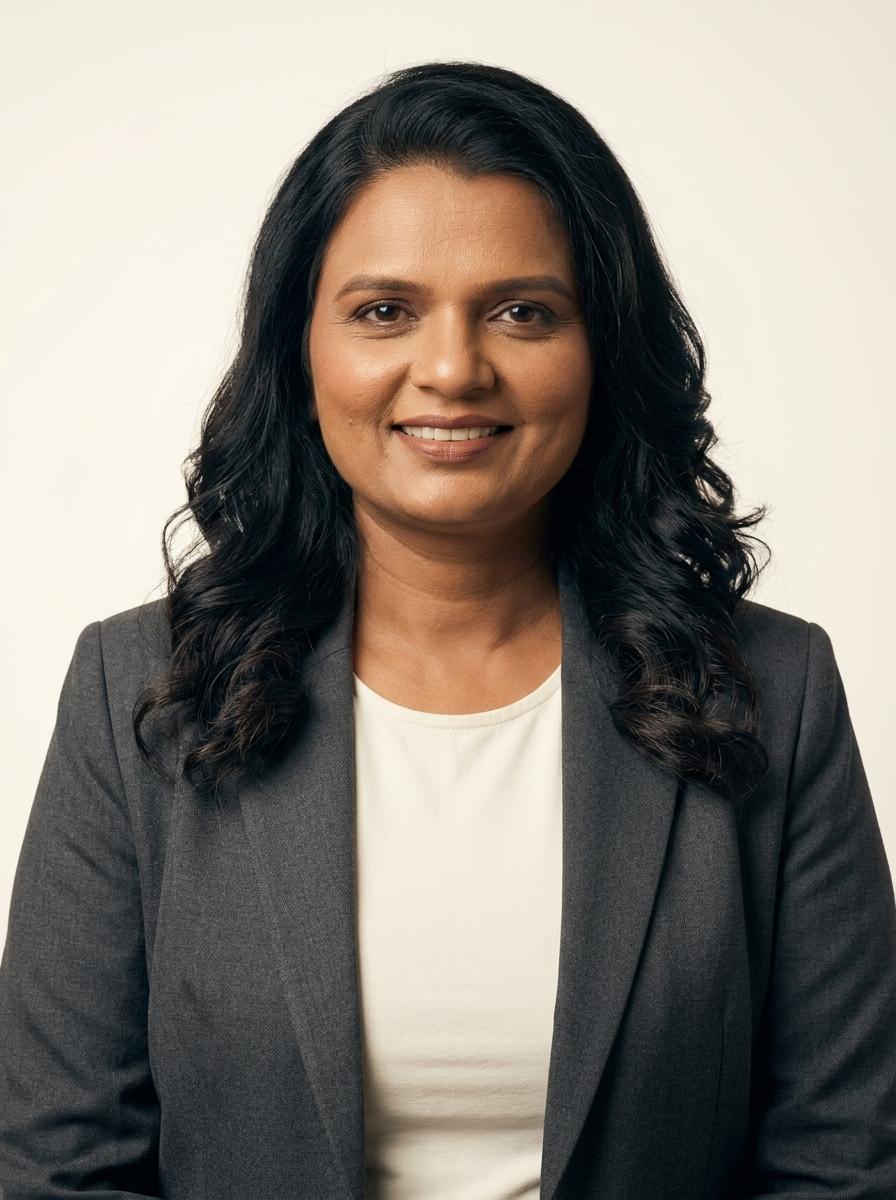
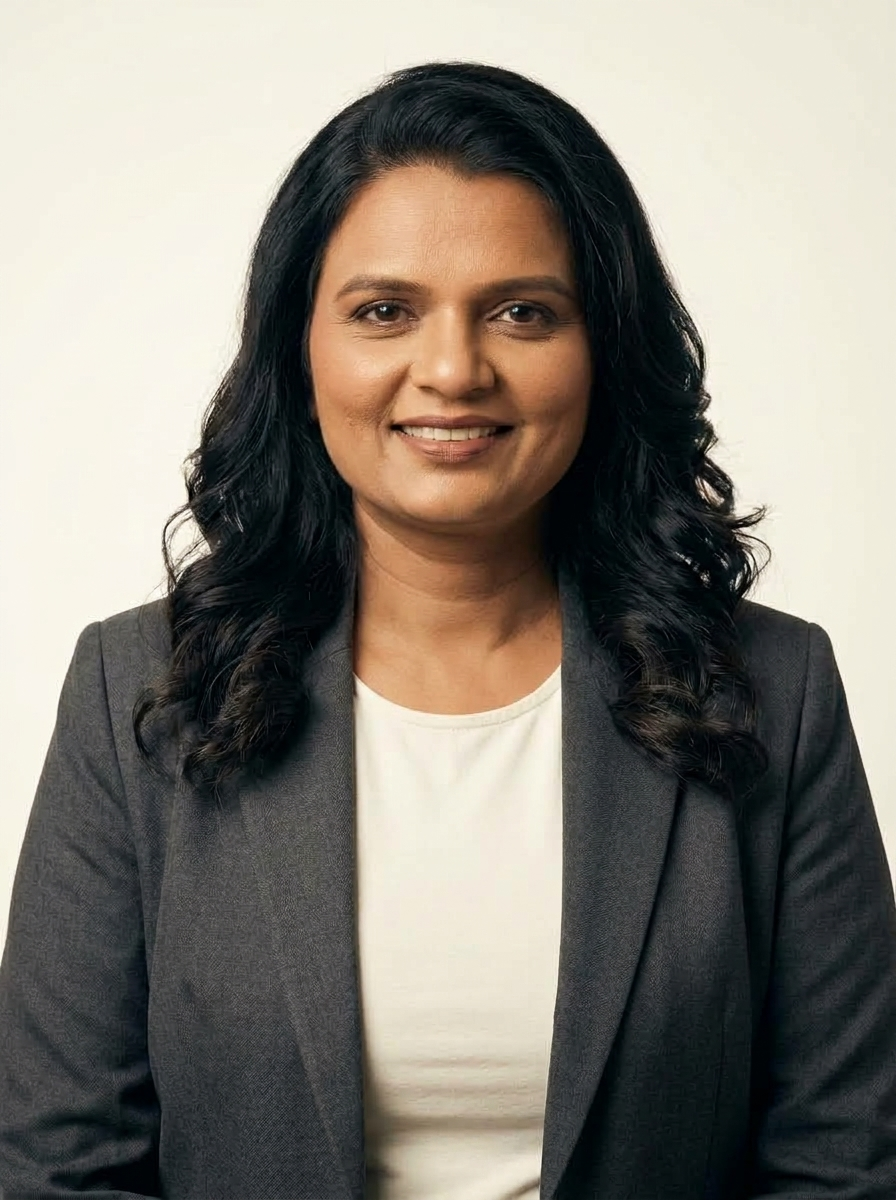
Wire in v4 headshot (skin-tone corrected, Amee-confirmed)
v2 had correct likeness but ran too dark/bronze. v3's tone-correction
pass didn't visibly take (compared side by side, couldn't tell it apart
from v2). v4's forceful, explicit correction did -- visibly lighter and
closer to the reference photos' actual tone, confirmed by both direct
comparison here and by Amee.

Docs updated with the v3 and v4 prompts/reasoning for the record.

Changed region(s): [[0.75, 0.2775, 0.7812, 0.3083], [0.1875, 0.4625, 0.2188, 0.4933]]

diff --git a/components/about/DesignerSpecCard.tsx b/components/about/DesignerSpecCard.tsx
@@ -16,8 +16,10 @@ const tools: { label: string; icon: IconName }[] = [
  * on the site) rather than an empty placeholder box.
  *
  * Portrait: AI-generated from the client's own reference photos (see
- * docs/headshot-generation-prompt.md — round 2/"v2" prompt, after round 1
- * drifted off her actual likeness; Amee confirmed the likeness). Full-bleed
+ * docs/headshot-generation-prompt.md — round 4/"v4" prompt; round 1 drifted
+ * off her likeness, v2 fixed that but ran too dark/bronze, v3's tone fix
+ * didn't actually take, v4's forceful correction did. Amee confirmed both
+ * likeness and skin tone on this round). Full-bleed
  * now (was a small circular avatar that cropped her face awkwardly) — the
  * card's own aspect ratio is tuned close to the source photo's, and
  * object-top keeps the crop coming off the bottom (shoulders/blazer)

diff --git a/docs/headshot-generation-prompt.md b/docs/headshot-generation-prompt.md
@@ -67,3 +67,66 @@ Run it twice, swapping only the bracketed `[FRONT: ... / SIDE: ...]` rotation li
 ## After generating
 
 Save the outputs as `assets/client/amee-headshot-front-v2.jpg` / `amee-headshot-side-v2.jpg` (keep the `-v2` suffix so round 1 stays around for comparison, don't overwrite it). Bring both back here — I'll look at them against the reference photos directly before anything gets wired into `DesignerSpecCard.tsx`. Don't rely on a self-generated review doc; a direct look at the images is the actual check.
+
+## v3 — quality refinement, not a re-roll
+
+"Photo not looking good" — the specific issue turned out to be **skin tone: the generated photo reads slightly darker than her actual skin tone** in the reference photos. Compare `assets/client/amee-headshot-ref-front.png`/`-ref-side.png` (real, correct tone) against `amee-headshot-front-v2.jpg` (generated, currently too dark) side by side before running this — that comparison is the actual target, not a vague "make it look better."
+
+Rather than regenerate from scratch — which risks losing the likeness Amee already confirmed on v2 — this is a **refinement pass**: keep everything about v2 (identity, wardrobe, pose, background) and correct the skin tone specifically, plus the same realism polish as before.
+
+Pass `assets/client/amee-headshot-front-v2.jpg` itself as the base image (image-to-image / refine, not text-to-image from scratch), plus the two original reference photos for identity *and skin-tone* grounding, if the tool supports multiple reference images with different roles.
+
+```
+Refine this headshot. Keep everything about the composition exactly
+as-is: the same person, the same pose, the same charcoal blazer over an
+off-white top, the same plain warm off-white background, the same
+framing. Do not change her face shape, features, or identity — this must
+still read as the same specific person as the base image.
+
+Skin tone — the main fix needed: the base image's skin tone is visibly
+darker than her real skin tone shown in the attached reference photos.
+Correct it to match the reference photos' actual warm tan tone exactly —
+do not darken, do not add an orange/bronze cast. Match the reference,
+not a generic "warm skin" default.
+
+Other realism fixes, same pass:
+
+Skin texture: replace any smoothed/airbrushed/plastic-looking texture
+with real skin detail — visible pores, natural tonal variation, a little
+asymmetry. Waxy-smooth skin is the single biggest tell that a headshot
+is AI-generated.
+
+Eyes: sharpen specifically. Clear, natural catchlight and crisp iris
+detail — soft/mushy eye rendering reads as artificial fast.
+
+Lighting: real dimensionality — a clear light direction with soft but
+visible falloff and shadow, not flat/shadowless studio lighting.
+
+Sharpness: increase overall micro-detail (hair strands, fabric weave,
+skin texture) without oversharpening into haloing or artifacts.
+
+Do not: change her pose, wardrobe, background, crop, or facial identity.
+This is a correction + polish pass, not a new generation.
+```
+
+Save the result as `assets/client/amee-headshot-front-v3.jpg` (don't overwrite v2 — same reasoning as before, keep the prior round around for comparison). Bring it back here before it goes anywhere near the component.
+
+## v4 — forceful skin-tone correction
+
+v3 maintained the deeper bronze tone due to visual conditioning from the v2 base image. For v4, the instruction explicitly forced a 3–4 shade lighter shift to directly match the light-to-medium warm wheatish tone of the original reference photos (`amee-headshot-ref-front.png` / `-ref-side.png`).
+
+```
+CRITICAL MANDATORY CORRECTION — SKIN TONE MUST BE SIGNIFICANTLY LIGHTER:
+The base headshot (third image) is far too dark and deeply bronze-tanned. That is incorrect.
+The first two attached reference photos show her true complexion: a noticeably lighter, fair-to-medium warm wheatish Indian skin tone (soft golden-beige / light warm undertones).
+You MUST lighten her facial, neck, and chest skin tone by 3 to 4 shades so it accurately reflects her real, lighter complexion from the reference photos. Do not generate dark or bronze skin. Her skin must be visibly lighter, luminous, and natural.
+
+Preserve everything else from the base composition:
+- Identity & Likeness: Keep her exact facial structure, bone shape, round face with full cheeks, dark brown eyes, and friendly natural smile.
+- Hair & Wardrobe: Keep the dark wavy hair falling past the shoulders, and the tailored solid charcoal-grey blazer over a plain off-white round-neck top.
+- Background & Lighting: Plain seamless studio paper backdrop in warm off-white (#fcfcfa). Soft, directional studio lighting with gentle falloff.
+- Realism: Realistic, sharp micro-detail — crisp iris with clear natural catchlight, authentic skin texture with visible pores and natural tone variations (avoid any waxy, airbrushed, or plastic AI look). High resolution editorial portrait.
+```
+
+Saved as `assets/client/amee-headshot-front-v4.jpg`.
+
